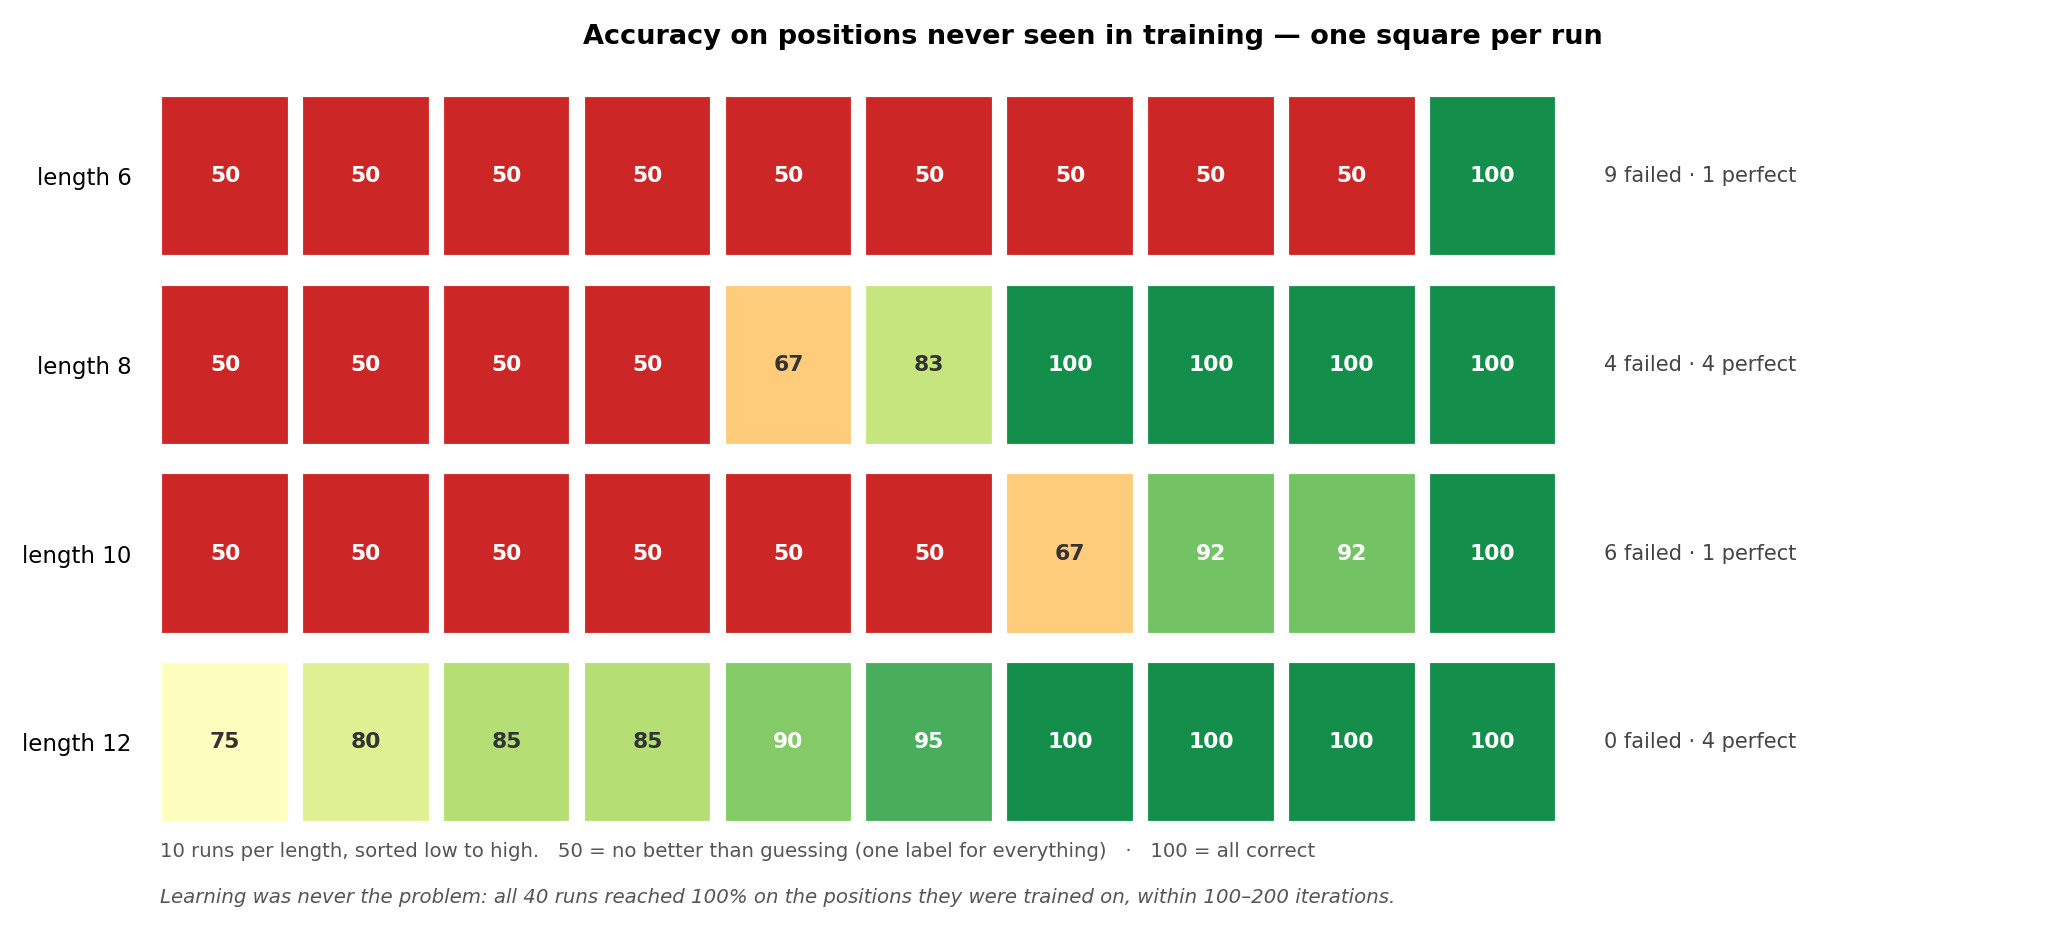
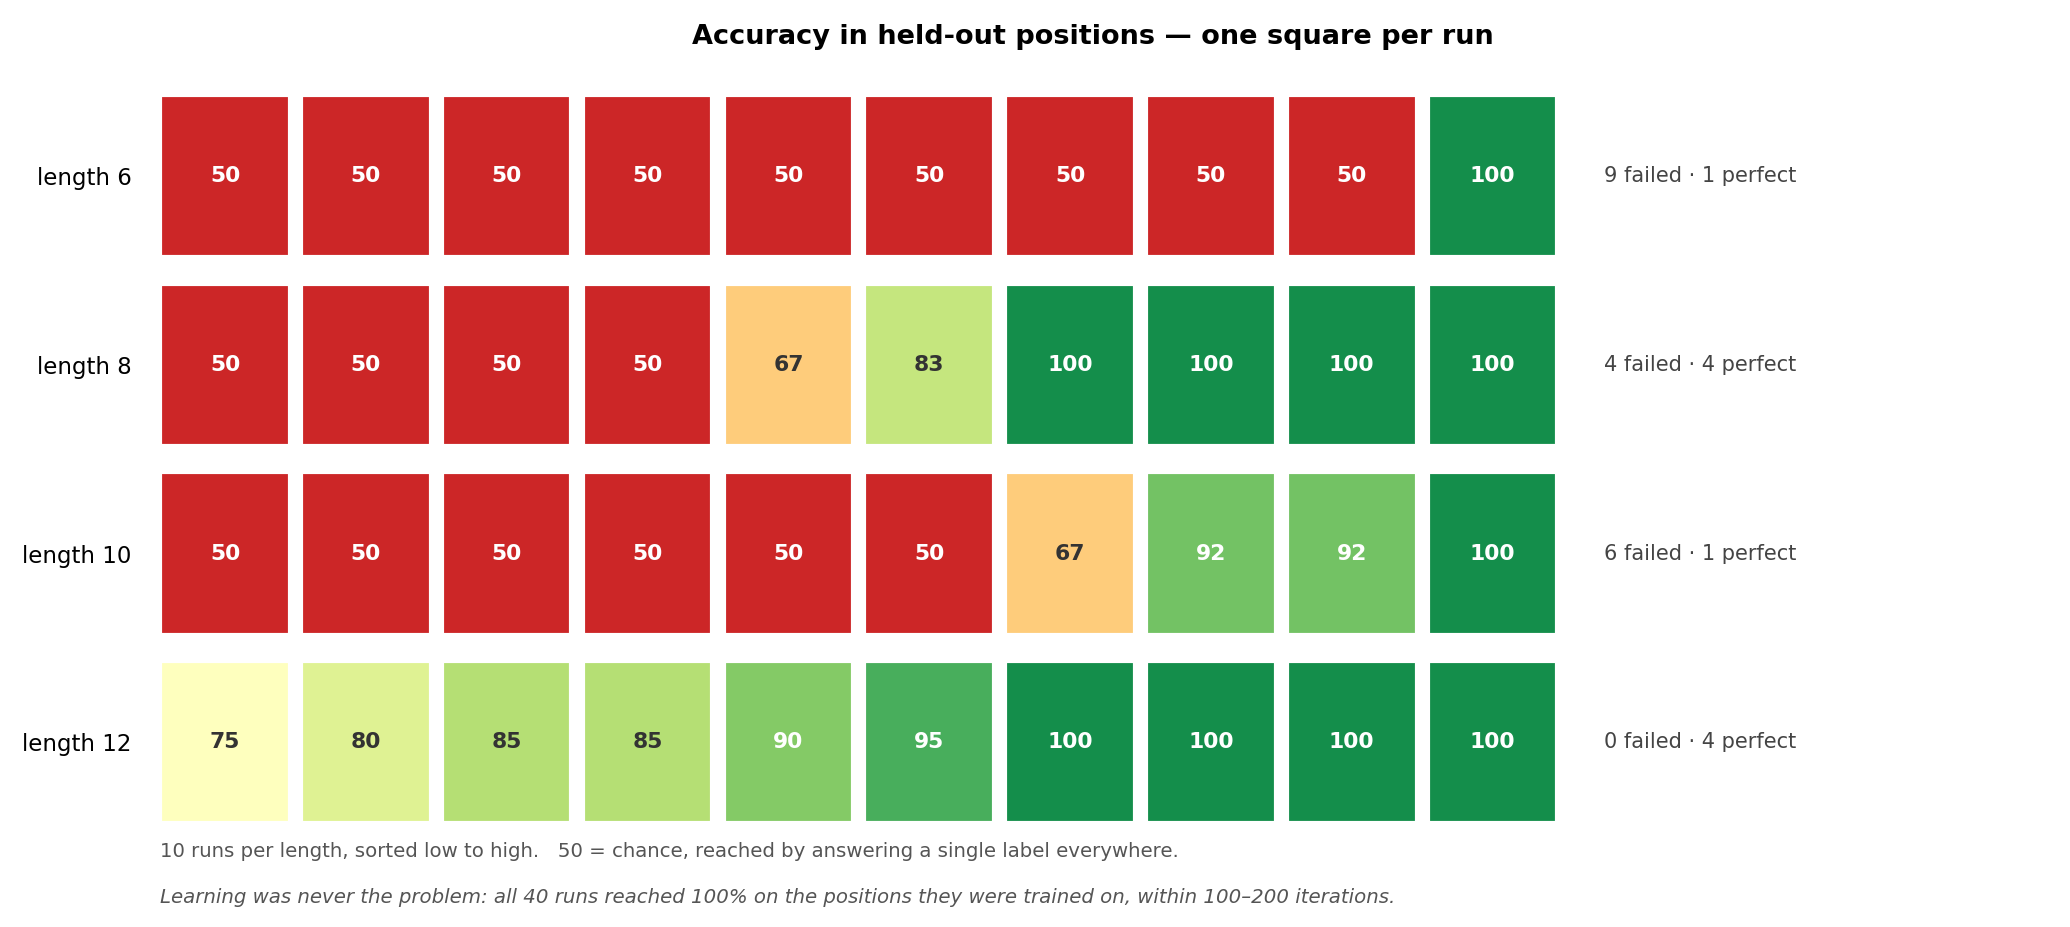
background: use "held-out positions" consistently in figures and log
The grid title, the vs_length axis label and the log prose now all use the
repo's standard term. Also brings plot.py's docstring up to date with all modes.

Changed region(s): [[0.2783, 0.0302, 0.7729, 0.0604], [0.3092, 0.9061, 0.6493, 0.9364]]

diff --git a/generalization-background/plot.py b/generalization-background/plot.py
@@ -7,13 +7,23 @@ Reads (written by train.py and evaluate.py):
   - predictions.csv  per-example diagnostic sweep        -> per-position heatmaps (the why)
   - curves.csv       the val curve of every run          -> Stage 1's learnability gate
 
-Produces (PNG, 150 DPI, into out/):
-  - accuracy_vs_b_<split>.png        THE HEADLINE. x = b (background diversity), y = accuracy,
-    (len{N} in the name for      two lines: in-distribution val and held-out test, mean over
-     lengths other than 6)       seeds with error bars, chance line at 50%. Read it as:
-                                   both lines high and flat  -> background is NOT T5's problem
-                                   held-out drops, val high   -> background hurts GENERALIZATION
-                                   both drop                  -> background hurts LEARNING
+Produces (PNG, 150 DPI, into --out_dir):
+  - run_grid_b<N>_<split>.png        (--grid) every run as one labelled square, rows = input
+                                     length. Counts and individual values read off the same
+                                     picture, and the SHAPE of a row shows at a glance whether
+                                     the runs split into two clumps or sit on a continuum.
+                                     This is the figure the Stage 1 log uses.
+  - accuracy_vs_b_<split>.png        (--vs_b) x = b (background diversity), y = accuracy, two
+    (len{N} for lengths != 6)        lines: in-distribution val and held-out. Read it as:
+                                       both high and flat     -> background is NOT T5's problem
+                                       held-out drops only    -> background hurts GENERALIZATION
+                                       both drop              -> background hurts LEARNING
+                                     Waiting on the sweep actually being run.
+  - accuracy_vs_length_b<N>_<split>.png  (--vs_length) accuracy and outcome mix against input
+                                     length. Superseded by --grid for the log, kept because it
+                                     shows the per-length distribution on a common axis.
+  - decay_with_distance_len<N>_b<N>.png  (--decay) error rate against how far a test case sits
+                                     beyond the training region, one line per X-Y distance.
   - per_position_b<N>_<split>.png    accuracy over (x_pos, y_pos) pairs for one b, ONE PANEL
                                      PER SEED plus a pooled panel. The per-seed panels are
                                      not decoration: a pooled average can manufacture
@@ -21,16 +31,18 @@ Produces (PNG, 150 DPI, into out/):
                                      collapsing to opposite labels average into a clean-
                                      looking pattern), so mechanism claims must be read off
                                      the per-seed panels.
-  - learnability_b<N>.png            (--curve) val accuracy vs iteration, one line per seed.
-                                     Stage 1's gate: flat at 50% = it cannot learn the task;
-                                     climbing = good. Also shows whether max_iters is
-                                     wastefully long.
+  - learnability_b<N>_<split>.png    (--curve) val accuracy vs iteration, one line per seed.
+                                     Shows how fast training converges and any instability
+                                     afterwards. Also shows whether max_iters is wastefully
+                                     long.
 
 Usage (from generalization-background/):
-    ../venv/bin/python plot.py --split=half --vs_b        # headline accuracy-vs-b
-    ../venv/bin/python plot.py --split=half               # per-position heatmaps (all b present)
-    ../venv/bin/python plot.py --curve --b=1              # Stage 1 learnability curve
-    ../venv/bin/python plot.py --split=half --vs_b --out_dir=log/figures
+    ../venv/bin/python plot.py --split=half --b=1 --grid --out_dir=log/figures
+    ../venv/bin/python plot.py --split=half --b=1 --vs_length
+    ../venv/bin/python plot.py --split=half --vs_b
+    ../venv/bin/python plot.py --split=half --b=1 --length=12 --decay
+    ../venv/bin/python plot.py --split=half                    # per-position heatmaps
+    ../venv/bin/python plot.py --curve --b=1 --length=6 --split=half
 """
 import os
 import csv
@@ -205,7 +217,7 @@ def plot_vs_length(split, out_dir, b=1, out_name=''):
     ax.text(x[0] - 0.42, CHANCE + 1.4, '50% = gives the same answer to everything',
             va='bottom', ha='left', fontsize=9, color='#555555', style='italic')
     ax.set_ylim(44, 106)
-    ax.set_ylabel('accuracy on UNSEEN positions (%)', fontsize=10)
+    ax.set_ylabel('accuracy in held-out positions (%)', fontsize=10)
     ax.set_title('How well did each run do?', fontsize=12, fontweight='bold')
     ax.legend(loc='center left', fontsize=9, framealpha=0.95)
 
@@ -558,7 +570,7 @@ def plot_run_grid(split, out_dir, b=1, out_name=''):
     for s in ax.spines.values():
         s.set_visible(False)
     ax.tick_params(length=0)
-    ax.set_title('Accuracy on positions never seen in training — one square per run',
+    ax.set_title('Accuracy in held-out positions — one square per run',
                  fontsize=13, fontweight='bold', pad=12)
     # Training success is deliberately a sentence, not a per-cell number: every run reached
     # 100% on trained positions at either iteration 100 or 200, and eval_interval is 100, so
@@ -566,7 +578,7 @@ def plot_run_grid(split, out_dir, b=1, out_name=''):
     # resolution the data does not have.
     ax.text(0, -0.10,
             f'{ncol} runs per length, sorted low to high.   '
-            '50 = no better than guessing (one label for everything)   ·   100 = all correct',
+            '50 = chance, reached by answering a single label everywhere.',
             fontsize=9.5, color='#555555', va='top')
     ax.text(0, -0.34,
             f'Learning was never the problem: all {ncol * len(lengths)} runs reached 100% on '

diff --git a/generalization-background/log/2026-07-18-background-stage1-clean-baseline.md b/generalization-background/log/2026-07-18-background-stage1-clean-baseline.md
@@ -2,7 +2,7 @@
 
 *2026-07-18 · John Lee · code, data and figures are committed together with this log*
 
-> **Short version.** The model learns the task every time, but carries it to unseen positions
+> **Short version.** The model learns the task every time, but carries it to held-out positions
 > only unreliably. At length 6, **9 of 10 runs fail completely.** Longer inputs remove that
 > complete failure — at length 12 **no run collapses** and the worst is 75% — but only **4 of
 > 10** are fully correct. **Stage 1 does not pass**, so the background sweep it was meant to set
@@ -79,8 +79,8 @@ seeds 1337–1346. Train 20,000 / val 2,000 / test 2,000, all 50/50 T/F, so chan
 **Results:**
 
 - **Learning always works:** all 10 runs hit 100% on the trained positions by iteration 100.
-- **Generalizing usually does not:** only **1 of 10** runs (seed 1338) scored 100% on the
-  unseen positions. The other **9 answered `T` to everything**, which scores exactly 50%.
+- **Generalizing usually does not:** only **1 of 10** runs (seed 1338) scored 100% in the
+  held-out positions. The other **9 answered `T` to everything**, which scores exactly 50%.
 - No run landed in between — it was 50% or 100%, nothing else.
 
 One structural fact worth noting: at length 6 each half has only 3 positions, so there is
@@ -132,8 +132,8 @@ half.*
 
 <img src="figures/run_grid_b1_half.png" alt="grid of 40 coloured squares, ten per input length, each labelled with that run's held-out accuracy" width="100%">
 
-*Every square is one run, labelled with its accuracy on unseen positions and coloured red (50,
-chance) to green (100). Runs are sorted within each row, so the column position carries no
+*Every square is one run, labelled with its accuracy in the held-out positions and coloured red
+(50, chance) to green (100). Runs are sorted within each row, so the column position carries no
 meaning — the **shape of each row** does. Length 6 splits cleanly into nine reds and one green,
 with nothing in between; length 12 is a smooth gradient from 75 to 100 with no reds at all.
 That difference in shape, not the difference in average, is what makes length 12 usable as a
